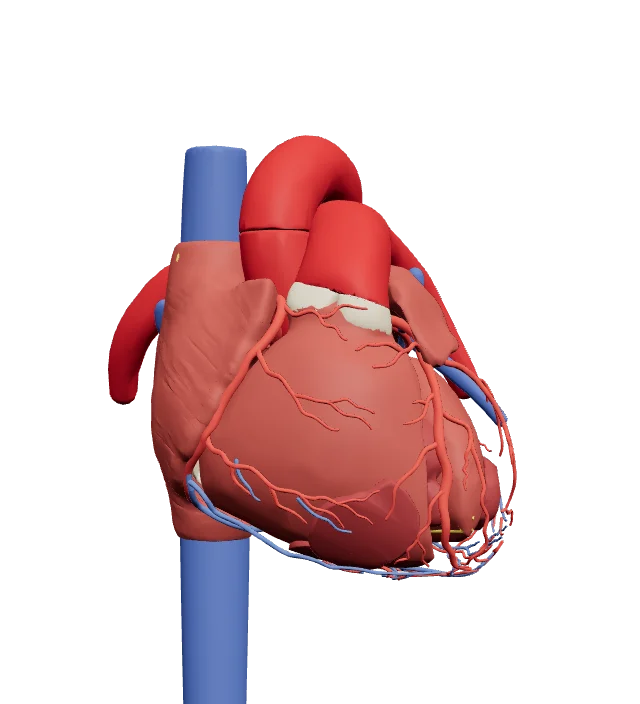
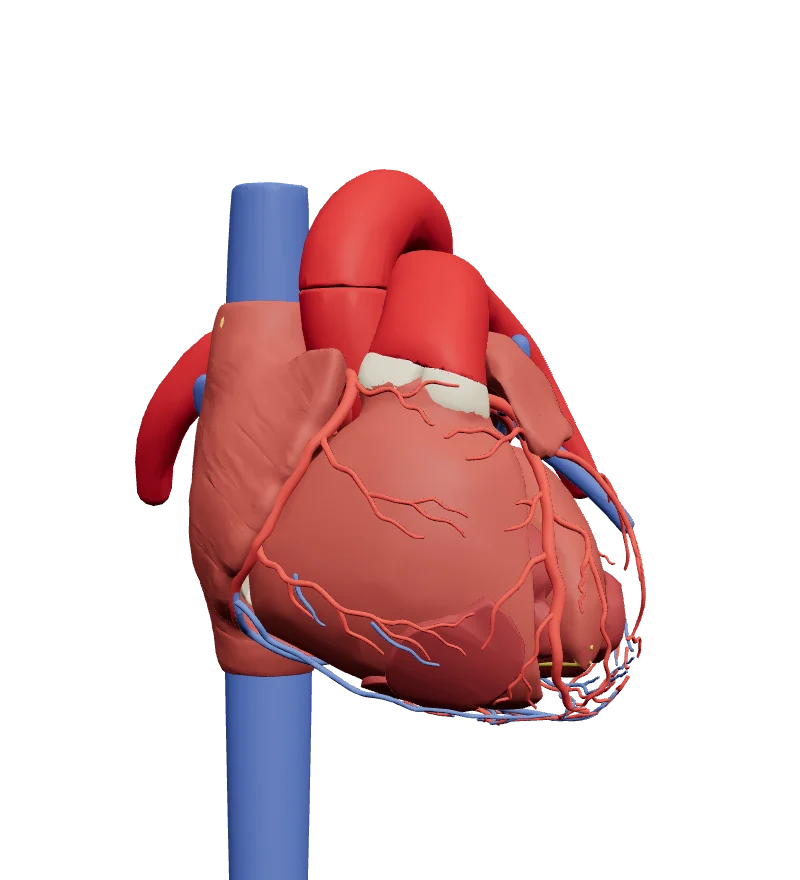
Fix home stage layout from 900 to 1440 px and review findings
- Size the poster from the card width; copy above the stage below 80rem,
  side column under copy and stage below 90rem.
- Fade the body backdrop out before text, also on mobile.
- Render the poster id pass double-sided at 800x880.
- Redraw lines when fonts load and cards resize.
- Show language names; reword sources copy; align disease notes;
  hide the hover hint on touch screens.
- Tests: card overlap at 1000/1300/1440 px, no 3D code on home,
  axe per motion level, bodyArt hash, every plural key, anchor size.

diff --git a/apps/web/e2e/home.spec.ts b/apps/web/e2e/home.spec.ts
@@ -1,4 +1,5 @@
 import { expect, test } from '@playwright/test';
+import { MOTION_STORAGE_KEY } from '../src/lib/motion.ts';
 import { productionLocales } from '../src/i18n/locales.ts';
 import { axe } from './axe.ts';
 
@@ -73,6 +74,50 @@ for (const locale of Object.keys(productionLocales)) {
       expect(overflow).toBe(0);
     });
 
+    for (const width of [1000, 1300, 1440]) {
+      test(`keeps the cards off the heart and the hint at ${width} px`, async ({ page }) => {
+        await page.setViewportSize({ width, height: 1000 });
+        await page.goto(`${locale}/`);
+        const box = (selector: string) =>
+          page.locator(selector).evaluateAll((els) =>
+            els.map((el) => {
+              const r = el.getBoundingClientRect();
+              return { left: r.left, right: r.right, top: r.top, bottom: r.bottom };
+            }),
+          );
+        const overlap = (
+          a: { left: number; right: number; top: number; bottom: number },
+          b: typeof a,
+        ) => a.left < b.right && b.left < a.right && a.top < b.bottom && b.top < a.bottom;
+        const [hint] = await box('.hint');
+        const [poster] = await box('[data-poster]');
+        if (!hint || !poster) throw new Error('No hint or poster');
+        // The poster's transparent margins may run under the cards: the heart itself takes
+        // x 135–646 and y 169–880 of the 800 × 880 picture.
+        const w = poster.right - poster.left;
+        const h = poster.bottom - poster.top;
+        const heart = {
+          left: poster.left + w * 0.17,
+          right: poster.right - w * 0.19,
+          top: poster.top + h * 0.19,
+          bottom: poster.bottom,
+        };
+        for (const card of await box('.node')) {
+          expect(overlap(card, hint)).toBe(false);
+          expect(overlap(card, heart)).toBe(false);
+        }
+      });
+    }
+
+    test('loads no 3D code', async ({ page }) => {
+      const scripts: Promise<string>[] = [];
+      page.on('response', (response) => {
+        if (response.url().endsWith('.js')) scripts.push(response.text());
+      });
+      await page.goto(`${locale}/`, { waitUntil: 'networkidle' });
+      for (const text of await Promise.all(scripts)) expect(text).not.toContain('WebGLRenderer');
+    });
+
     for (const colorScheme of ['light', 'dark'] as const) {
       test(`has no axe violations (${colorScheme})`, async ({ page }) => {
         await page.emulateMedia({ colorScheme });
@@ -81,6 +126,26 @@ for (const locale of Object.keys(productionLocales)) {
         expect(results.violations).toEqual([]);
       });
     }
+  });
+}
+
+for (const motion of ['full', 'calm', 'off', 'reduced'] as const) {
+  test(`home page has no axe violations with motion ${motion}`, async ({ page }) => {
+    if (motion === 'reduced') await page.emulateMedia({ reducedMotion: 'reduce' });
+    else {
+      await page.addInitScript(([key, value]) => localStorage.setItem(key, value), [
+        MOTION_STORAGE_KEY,
+        motion,
+      ] as const);
+    }
+    await page.goto('ru/');
+    await expect(page.locator('html')).toHaveAttribute(
+      'data-motion',
+      motion === 'reduced' ? 'off' : motion,
+    );
+    await expect(page.locator('[data-poster]')).toBeVisible();
+    const results = await axe(page).analyze();
+    expect(results.violations).toEqual([]);
   });
 }
 

diff --git a/apps/web/test/home.test.ts b/apps/web/test/home.test.ts
@@ -1,3 +1,4 @@
+import { createHash } from 'node:crypto';
 import { describe, expect, it } from 'vitest';
 import { localeCodes } from '../src/i18n/locales.ts';
 import { getMessages } from '../src/i18n/messages.ts';
@@ -29,7 +30,11 @@ describe('formatCount', () => {
   it('has a valid count message in every locale', () => {
     for (const locale of localeCodes) {
       const t = getMessages(locale);
-      for (const key of ['home.fact.articles', 'home.card.diseaseNote'] as const) {
+      const keys = (Object.keys(t) as (keyof typeof t)[]).filter((key) =>
+        t[key].includes('{count'),
+      );
+      expect(keys.length).toBeGreaterThan(3);
+      for (const key of keys) {
         expect(formatCount(t[key], locale, 7)).toMatch(/7/);
         expect(formatCount(t[key], locale, 7)).not.toMatch(/[{}]/);
       }
@@ -41,6 +46,12 @@ describe('bodyArt', () => {
   it('draws the same body on every build', () => {
     expect(bodyArt()).toEqual(bodyArt());
     expect(bodyArt(8)).not.toEqual(bodyArt());
+  });
+
+  it('draws the reviewed picture', () => {
+    // Changes only when the drawing is changed on purpose: then look at it and update the hash.
+    const hash = createHash('sha256').update(JSON.stringify(bodyArt())).digest('hex');
[1 lines of base64/hex data omitted]
   });
 
   it('keeps every vessel point inside the picture', () => {
@@ -93,6 +104,8 @@ describe('cards around the heart', () => {
       expect(anchor?.x).toBeLessThan(1);
       expect(anchor?.y).toBeGreaterThan(0);
       expect(anchor?.y).toBeLessThan(1);
+      // Enough of it shows for the line to land on it (the sinoatrial node is the smallest).
+      expect(anchor?.pixels, card.anchor).toBeGreaterThanOrEqual(20);
     }
   });
 

diff --git a/packages/models/scripts/render-poster.ts b/packages/models/scripts/render-poster.ts
@@ -20,9 +20,9 @@ import { FOV, HOME, TARGET } from '@heart-atlas/viewer/camera';
 import { assetsDir } from '../src/paths.ts';
 import { parseStructures } from '../src/structures.ts';
 
-/** Poster size in pixels; the home page shows it at half size, so it stays sharp on 2x screens. */
-export const POSTER_WIDTH = 640;
-export const POSTER_HEIGHT = 704;
+/** Poster size in pixels: twice the largest size the home page shows it at (25rem), for 2x screens. */
+export const POSTER_WIDTH = 800;
+export const POSTER_HEIGHT = 880;
 const QUALITY = 0.86;
 
 const require = createRequire(import.meta.url);
@@ -78,7 +78,8 @@ const owner = (o) => { for (let p = o; p; p = p.parent) if (ids.has(p.name)) ret
 gltf.scene.traverse((o) => {
   if (!o.isMesh) return;
   const n = owner(o);
-  o.material = new THREE.MeshBasicMaterial({ color: new THREE.Color().setRGB((n & 255) / 255, 0, 0, THREE.LinearSRGBColorSpace) });
+  // Both sides, like the model's own materials, so open meshes hide what is behind them.
+  o.material = new THREE.MeshBasicMaterial({ side: THREE.DoubleSide, color: new THREE.Color().setRGB((n & 255) / 255, 0, 0, THREE.LinearSRGBColorSpace) });
 });
 const target = new THREE.WebGLRenderTarget(s.width, s.height);
 renderer.toneMapping = THREE.NoToneMapping;

diff --git a/apps/web/src/lib/heart-model.ts b/apps/web/src/lib/heart-model.ts
@@ -24,7 +24,7 @@ export function heartModelUrls(base: string): {
 export function heroPoster(): {
   width: number;
   height: number;
-  anchors: Partial<Record<string, { x: number; y: number }>>;
+  anchors: Partial<Record<string, { x: number; y: number; pixels: number }>>;
 } {
   return anchorsJson;
 }
